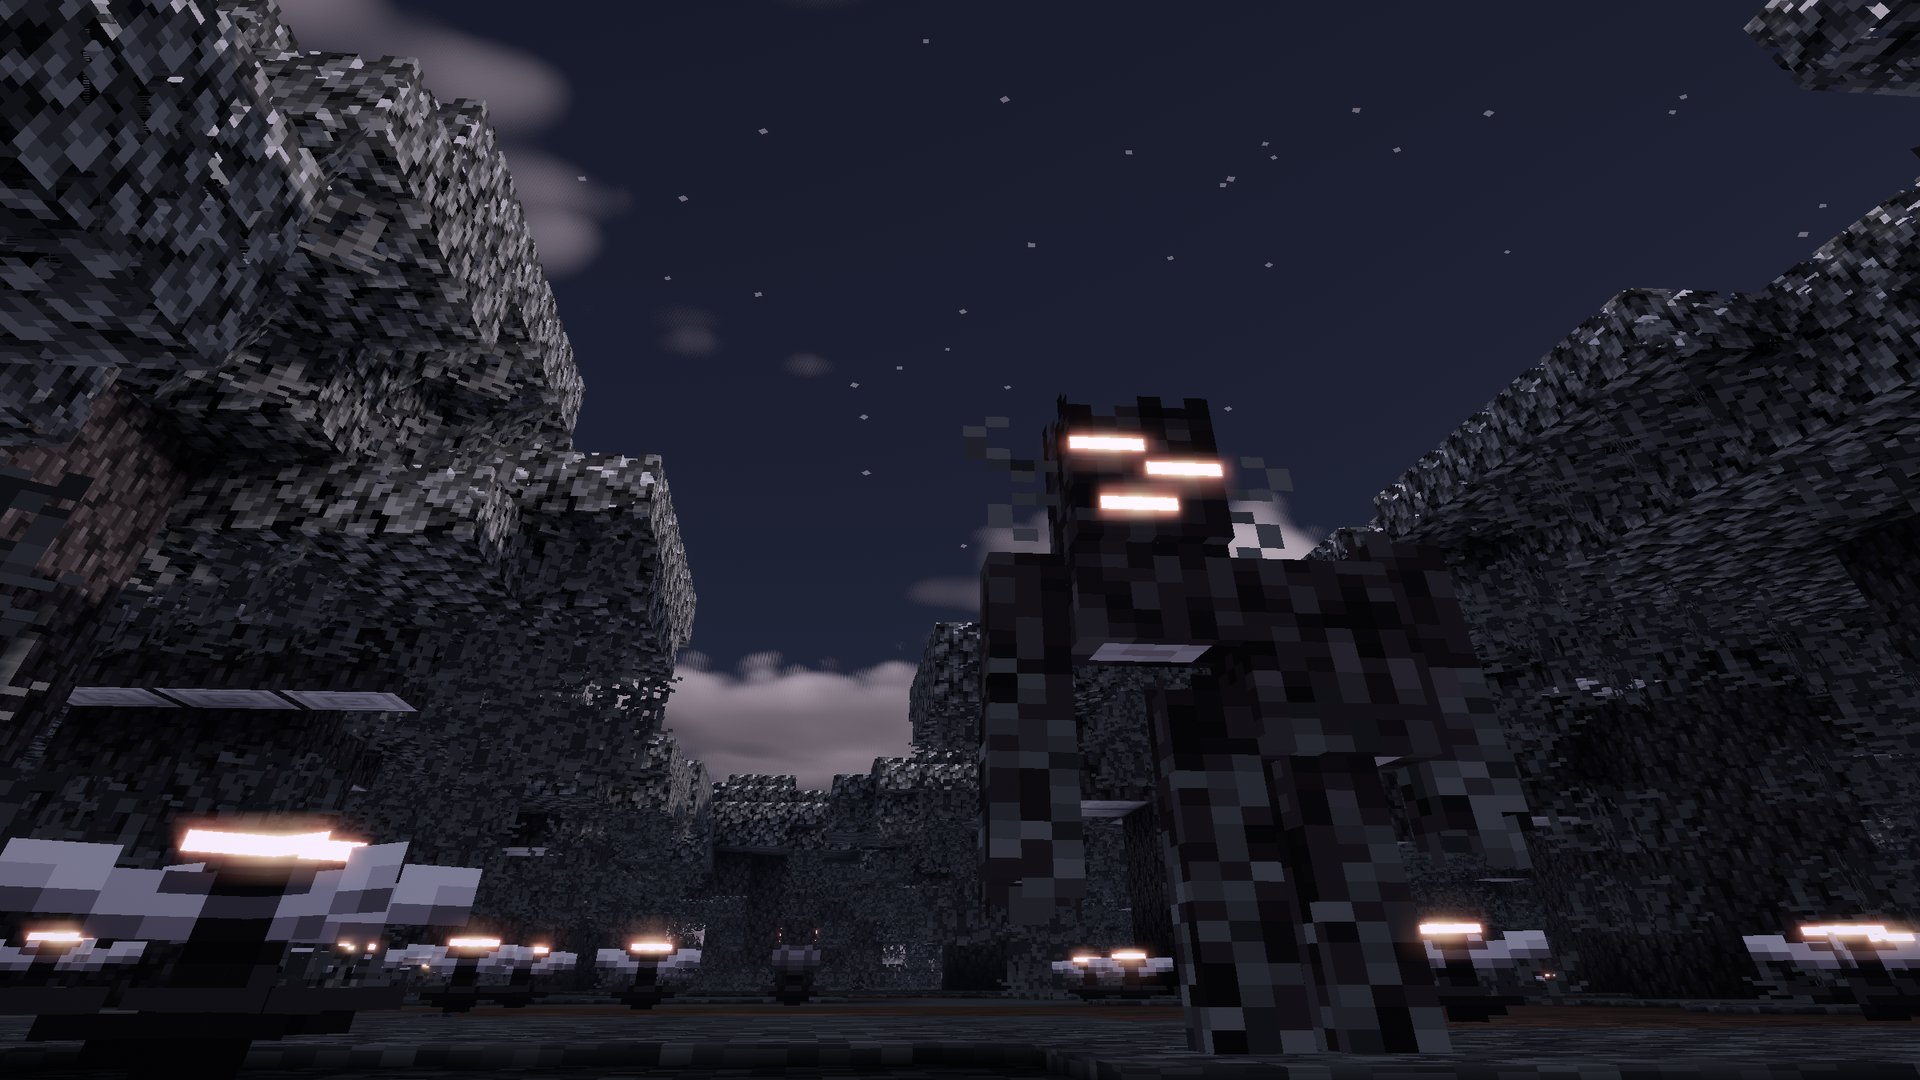
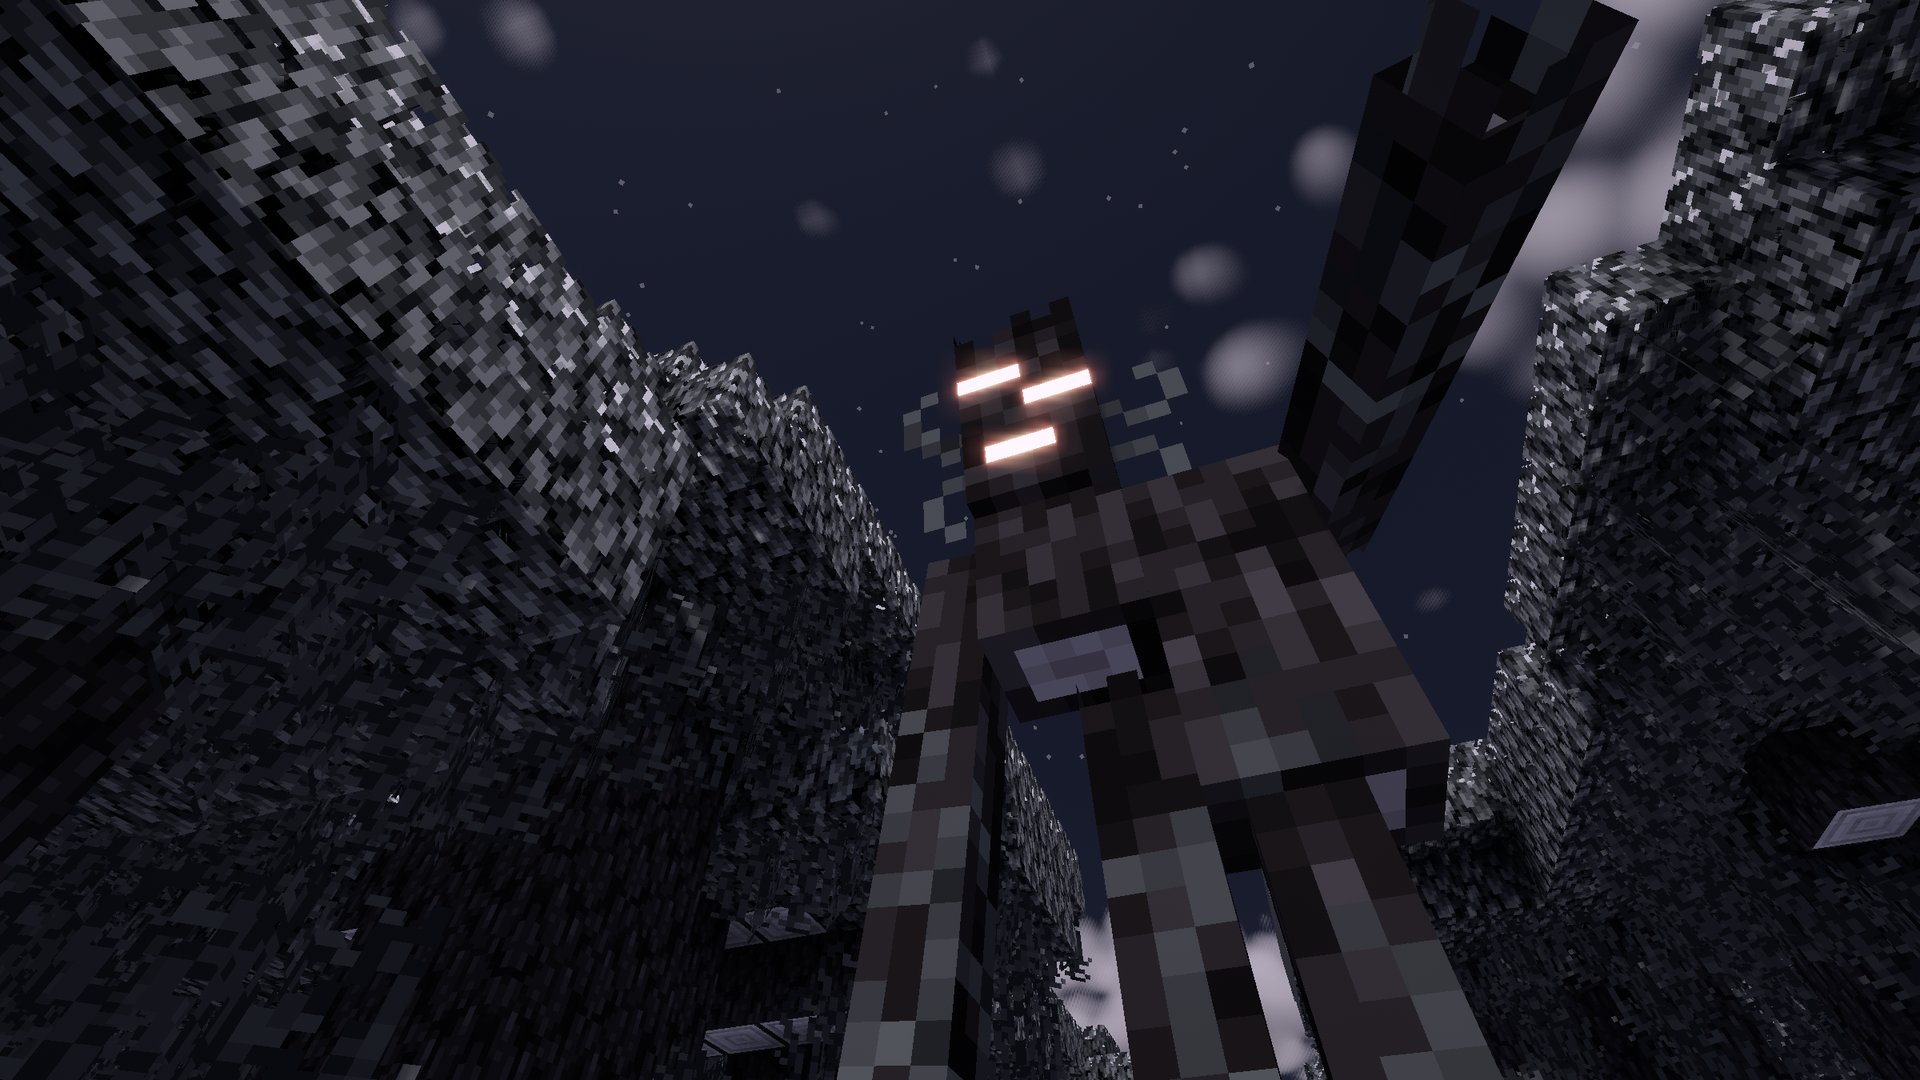
Hero art: Creaking close-up, eyes glowing in-game
Claude-Session: https://claude.ai/code/session_01BNMyvMnznLgSrfNMgmP44N

diff --git a/index.html b/index.html
@@ -52,7 +52,7 @@ main{flex:1;min-width:0;display:flex;flex-direction:column}
 .qp{display:flex;align-items:center;gap:10px;color:#fff;text-decoration:none;font-size:13px;font-weight:700;margin-bottom:22px}
 .qp img{width:40px;height:40px;padding:4px;background:#0f6b35;border:2px solid #000;box-shadow:inset 0 2px #27ce40;image-rendering:pixelated}
 /* ---- key art ---- */
-.hero{position:relative;flex:none;height:clamp(300px,calc(100vh - 360px),640px);background:#000 url('/img/launcher-art.jpg?v=6') center 40%/cover no-repeat}
+.hero{position:relative;flex:none;height:clamp(300px,calc(100vh - 360px),640px);background:#000 url('/img/launcher-art.jpg?v=7') center 35%/cover no-repeat}
 .logo{position:absolute;left:50%;top:14px;transform:translateX(-50%);width:clamp(220px,20vw,320px);filter:drop-shadow(0 3px 4px rgba(0,0,0,.45))}
 .logo img{display:block;width:100%;image-rendering:pixelated}
 .logo .ed{width:50%;margin:-8.5% auto 0}

diff --git a/sw.js b/sw.js
@@ -1,6 +1,6 @@
 /* Minecraft Web site shell cache. Only the website pages and their images; the game (/MinecraftWeb/),
    ads and every other origin always go to the network untouched. */
-const CACHE='mw-site-v9';
+const CACHE='mw-site-v10';
 const SHELL=['/','/index.html','/guide.html','/privacy.html','/install.js','/ad-clicks.js','/site-ads.js','/manifest.webmanifest','/icons/icon-192.png','/icons/icon-512.png','/icons/apple-touch-icon.png','/img/hero.jpg','/img/village.jpg','/img/sunset.jpg','/img/title.jpg','/img/debug.jpg'];
 self.addEventListener('install',e=>{e.waitUntil(caches.open(CACHE).then(c=>c.addAll(SHELL)).then(()=>self.skipWaiting()))});
 self.addEventListener('activate',e=>{e.waitUntil(caches.keys().then(ks=>Promise.all(ks.filter(k=>k!==CACHE).map(k=>caches.delete(k)))).then(()=>self.clients.claim()))});
